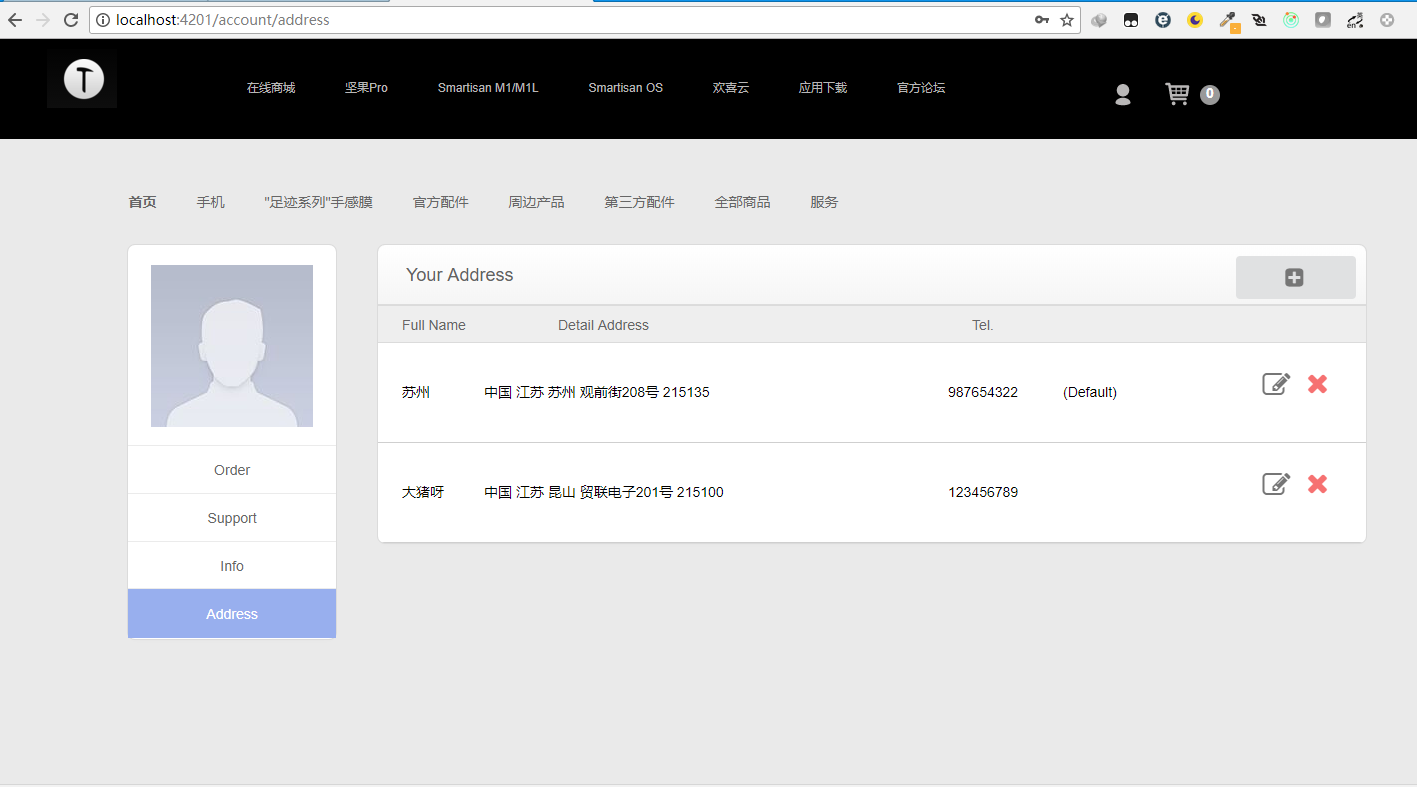
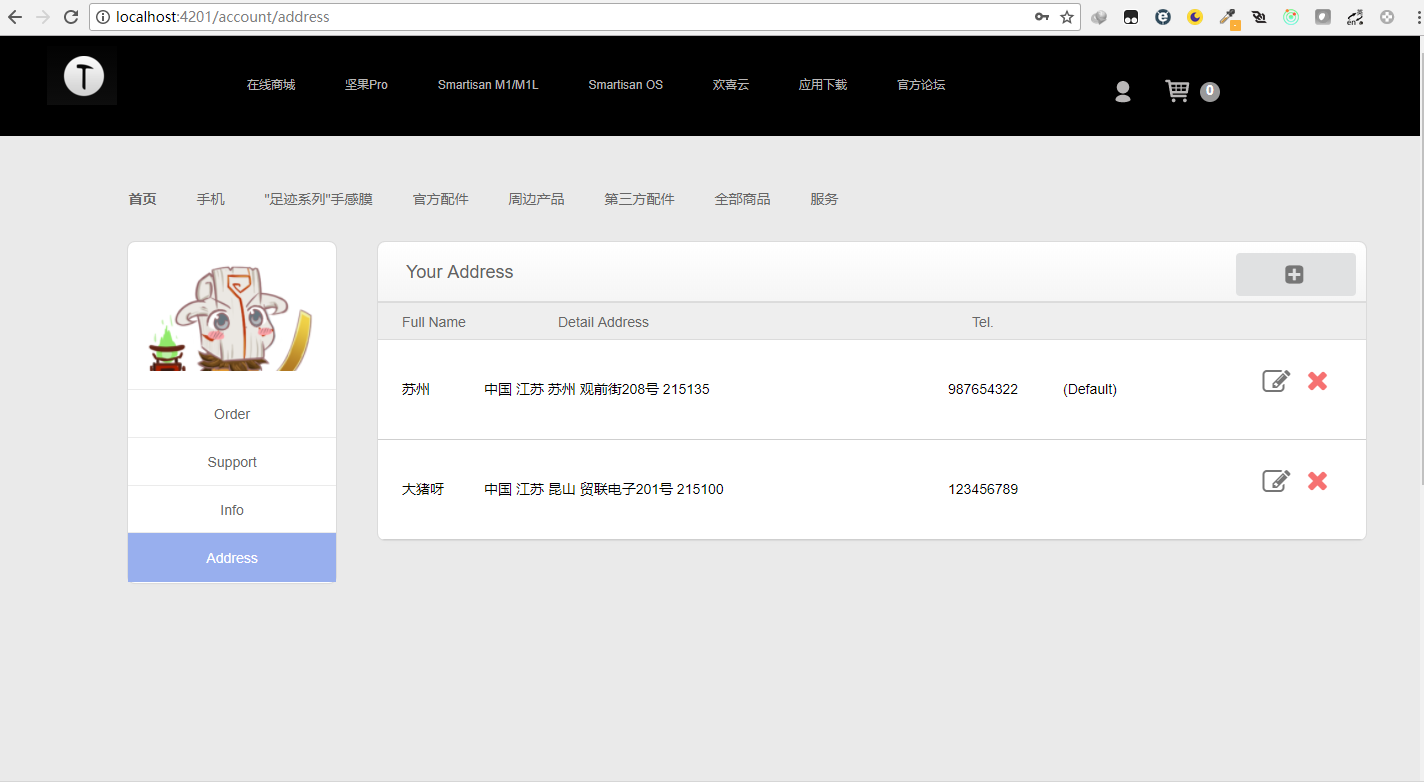
profile

diff --git a/src/sagas/user/user.js b/src/sagas/user/user.js
@@ -1,8 +1,7 @@
 import { call, fork, select, put, take, takeLatest } from 'redux-saga/effects'
-import { push } from 'react-router-redux'
 import axios from 'axios'
 import * as userActions from 'src/actions/user'
-import { login } from 'src/services/authFetch'
+import { login, getUserInfo } from 'src/services/authFetch'
 
 import history from 'src/history'
 
@@ -18,14 +17,26 @@ export function * registerFlow (action) {
 
 export function * loginFlow (action) {
   try {
-    const response = yield call(login,action.payload.username, action.payload.password)
-    yield put(userActions.loginSuccess(Object.assign({},response,{username:action.payload.username})))
+    const response = yield call(login, action.payload.username, action.payload.password)
+
+    const userInfoResponse =
+      yield axios.get(`/api/user/user/getUserInfo`,
+        {
+          params: {
+            username: action.payload.username
+          },
+          headers: {
+            Authorization: `Bearer ${response.access_token}`
+          }
+        }
+      )
+    yield put(userActions.loginSuccess(Object.assign({}, response, userInfoResponse.data)))
     const redirectUrl = new URLSearchParams(window.location.search).get('redirectUrl')
-    if(redirectUrl){
+    if (redirectUrl) {
       const re = /https?:\/\/.*?:\d+(.*?)/g
-      const router = redirectUrl.replace(re,'')
+      const router = redirectUrl.replace(re, '')
       yield history.push(router)
-    }else{
+    } else {
       yield history.push('/')
     }
   } catch (error) {

diff --git a/src/pages/account/components/menu/menu.scss b/src/pages/account/components/menu/menu.scss
@@ -1,56 +1,58 @@
 
-a{
-  color:#666;
+a {
+  color: #666;
 }
 
-.main{
+.main {
   clear: both;
   width: 220px;
   min-height: 600px;
   padding: 0 0 25px;
   margin-left: 130px;
-  .wrapper{
+  .wrapper {
     position: relative;
     min-height: 550px;
   }
 }
 
-.sidebar{
+.sidebar {
   position: absolute;
   top: 0px;
   left: 0;
   top: 0;
   width: 210px;
-  .avatar{
+  .avatar {
     padding-top: 20px;
     margin: 0 0 20px;
     border-radius: 10px;
     text-align: center;
     border: 1px solid #D1D1D1;
-    border-color: rgba(0,0,0,.14);
+    border-color: rgba(0, 0, 0, .14);
     border-radius: 8px;
-    box-shadow: 0 3px 8px -6px rgba(0,0,0,.1);
+    box-shadow: 0 3px 8px -6px rgba(0, 0, 0, .1);
     background: #FFF;
   }
 }
 
-.profile{
-
+.profile {
+  img {
+    width: 185px;
+  }
 }
 
-.inner{
+.inner {
   text-align: center;
   color: #626262;
-  ul{
+  ul {
     padding-top: 15px;
-    li{
+    li {
       position: relative;
       height: 48px;
       border-top: 1px solid #EBEBEB;
       line-height: 48px;
       cursor: pointer;
     }
-    li.active,li:hover{
+    li.active, li:hover {
       position: relative;
       top: -1px;
       z-index: 1;
@@ -59,8 +61,8 @@ a{
       line-height: 50px;
       color: #FFF;
       padding: 0 30px;
-      a{
-        color:#fff;
+      a {
+        color: #fff;
       }
     }
   }

diff --git a/src/reducers/user/user.js b/src/reducers/user/user.js
@@ -5,6 +5,7 @@ export const userState = new Record({
   loginState:false,
   loginError:false,
   username:'',
+  profile:'',
   access_token:'',
   refresh_token:''
 })
@@ -12,10 +13,12 @@ export const userState = new Record({
 export function userReducers (state = new userState(), action) {
   switch (action.type) {
     case userActions.LOGIN_SUCCESS:
+      console.log(action.payload)
       return Object.assign({},state,
         {
           loginState:true,
           username:action.payload.username,
+          profile:action.payload.profile,
           access_token:action.payload.access_token,
           refresh_token:action.payload.refresh_token
         });

diff --git a/src/pages/account/components/menu/MenuComponent.js b/src/pages/account/components/menu/MenuComponent.js
@@ -15,7 +15,7 @@ class MenuComponent extends Component {
 
   render () {
 
-    const {currentMenu} = this.props
+    const {currentMenu,profile} = this.props
 
     const menus = [
       {name: 'order', describe: 'Order', url: '/account/order'},
@@ -30,7 +30,7 @@ class MenuComponent extends Component {
           <div className={style.sidebar}>
             <div className={style.avatar}>
               <div className={style.profile}>
-                <img src='/src/images/profile.jpg'/>
+                <img src={profile}/>
               </div>
               <div className={style.inner}>
                 <ul>

diff --git a/src/selectors/user/index.js b/src/selectors/user/index.js
@@ -2,6 +2,7 @@ import { createSelector } from 'reselect'
 
 
 export const usernameState = state => state.user.username
+export const profileState = state => state.user.profile
 
 export const userLoginErrorSelector = createSelector(
   state => state.user.loginError,
@@ -11,5 +12,10 @@ export const userLoginErrorSelector = createSelector(
 export const usernameSelector = createSelector(
   usernameState,
   (username) => ({username})
+)
+
+export const profileSelector = createSelector(
+  profileState,
+  (profile) => ({profile})
 )
 

diff --git a/src/pages/account/Account.js b/src/pages/account/Account.js
@@ -1,5 +1,6 @@
 import React, { Component } from 'react'
 import { connect } from 'react-redux'
+import {profileSelector} from 'src/selectors/user'
 import MenuComponent from './components/menu'
 import Address from './Address'
 import Order from './Order'
@@ -7,7 +8,7 @@ import Support from './Support'
 import Info from './Info'
 
 @connect(
-  null,
+  state => profileSelector,
   null)
 export default class Account extends Component {
   constructor (props) {

diff --git a/webpack.config.js b/webpack.config.js
@@ -93,7 +93,7 @@ module.exports = {
       '/api/item': {
         target: 'http://localhost:8765/cz-portal-service-item',
         pathRewrite: {
-          '/api/item' : '/'
+          '/api/item' : ''
         }
       },
       '/api/user': {
